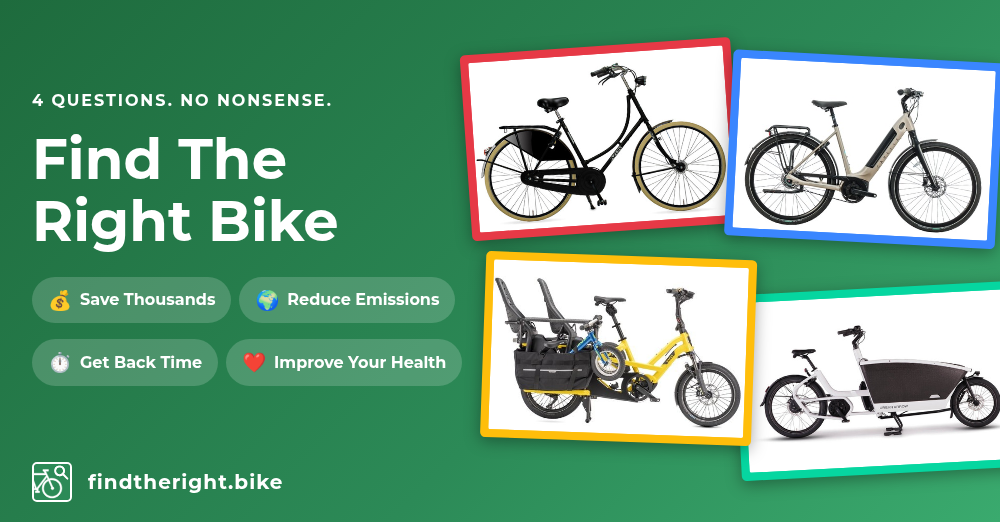
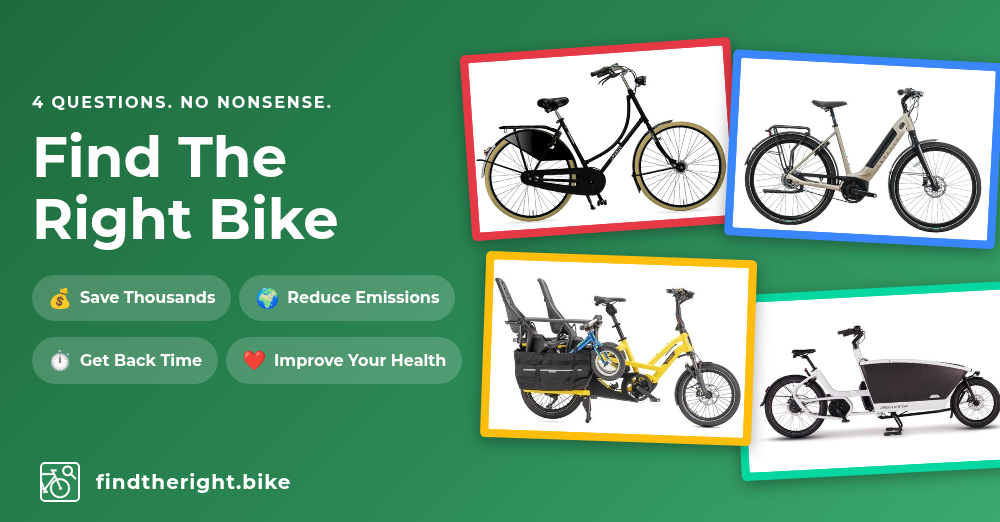
DRY up social image styles

diff --git a/src/assets/scss/social-image.scss b/src/assets/scss/social-image.scss
@@ -1,0 +1,69 @@
+/**
+ * social-image.scss — Shared styles for OG/social preview images
+ * (SocialImage.vue and SocialImageBike.vue).
+ *
+ * Each component @use's this file and adds its own unique styles on top.
+ * Covers the base card layout, gradient background, eyebrow/heading
+ * typography, and the site branding strip at the bottom.
+ */
+@use './variables' as vars;
+
+$bg-start: #1e6b3d;
+$bg-mid: #2c8a57;
+$bg-end: #3aaa6e;
+
+.social-image {
+  width: 1000px;
+  height: 522px;
+  background: linear-gradient(135deg, $bg-start 0%, $bg-mid 60%, $bg-end 100%);
+  display: flex;
+  align-items: center;
+  position: relative;
+  overflow: hidden;
+  font-family: 'Montserrat', sans-serif;
+}
+
+.content {
+  flex: 1;
+  padding: 2.5rem;
+  z-index: 1;
+  margin-bottom: 3rem;
+}
+
+.eyebrow {
+  font-size: 1rem;
+  font-weight: 700;
+  letter-spacing: 0.12em;
+  text-transform: uppercase;
+  color: rgba(255, 255, 255, 0.8);
+  margin-bottom: 0.75rem;
+}
+
+h1 {
+  font-size: 3rem;
+  font-weight: 700;
+  color: vars.$white;
+  line-height: 1.1;
+  margin: 0 0 1.5rem;
+}
+
+.site-brand {
+  position: absolute;
+  bottom: 1.25rem;
+  left: 2.5rem;
+  display: flex;
+  align-items: center;
+  gap: 1rem;
+  font-size: 1.25rem;
+  font-weight: 700;
+  color: vars.$white;
+  letter-spacing: 0.05em;
+  z-index: 2;
+}
+
+.site-logo {
+  width: 2.5rem;
+  height: 2.5rem;
+  border-radius: 5px;
+  border: 2px solid vars.$white;
+}

diff --git a/src/components/SocialImageBike.vue b/src/components/SocialImageBike.vue
@@ -34,44 +34,7 @@ const bike = computed(() => BikeTypes[props.type] || null);
 
 <style lang="scss" scoped>
 @use '../assets/scss/variables' as vars;
-
-$bg-start: #1e6b3d;
-$bg-mid: #2c8a57;
-
-.social-image {
-  width: 1000px;
-  height: 522px;
-  background: linear-gradient(135deg, $bg-start 0%, $bg-mid 60%, #3aaa6e 100%);
-  display: flex;
-  align-items: center;
-  position: relative;
-  overflow: hidden;
-  font-family: 'Montserrat', sans-serif;
-}
-
-.content {
-  flex: 1;
-  padding: 2.5rem;
-  z-index: 1;
-  margin-bottom: 3rem;
-}
-
-.eyebrow {
-  font-size: 1rem;
-  font-weight: 700;
-  letter-spacing: 0.12em;
-  text-transform: uppercase;
-  color: rgba(255, 255, 255, 0.8);
-  margin-bottom: 0.75rem;
-}
-
-h1 {
-  font-size: 3rem;
-  font-weight: 700;
-  color: vars.$white;
-  line-height: 1.1;
-  margin: 0 0 1.5rem;
-}
+@use '../assets/scss/social-image';
 
 .features {
   list-style: none;
@@ -131,26 +94,5 @@ h1 {
   right: 2.5rem;
   font-size: 0.9rem;
   padding: 0.35rem 0.75rem;
-}
-
-.site-brand {
-  position: absolute;
-  bottom: 1.25rem;
-  left: 2.5rem;
-  display: flex;
-  align-items: center;
-  gap: 1rem;
-  font-size: 1.25rem;
-  font-weight: 700;
-  color: vars.$white;
-  letter-spacing: 0.05em;
-  z-index: 2;
-}
-
-.site-logo {
-  width: 2.5rem;
-  height: 2.5rem;
-  border-radius: 5px;
-  border: 2px solid vars.$white;
 }
 </style>

diff --git a/src/components/SocialImage.vue b/src/components/SocialImage.vue
@@ -45,44 +45,19 @@
 
 <style lang="scss" scoped>
 @use '../assets/scss/variables' as vars;
-
-$bg-start: #1e6b3d;
-$bg-mid: #2c8a57;
-
-.social-image {
-  width: 1000px;
-  height: 522px;
-  background: linear-gradient(135deg, $bg-start 0%, $bg-mid 60%, #3aaa6e 100%);
-  display: flex;
-  align-items: center;
-  position: relative;
-  overflow: hidden;
-  font-family: 'Montserrat', sans-serif;
-}
+@use '../assets/scss/social-image';
 
 .content {
-  flex: 1;
   padding: 2rem;
-  z-index: 1;
   flex-shrink: 0;
-  margin-bottom: 3rem;
 }
 
 .eyebrow {
-  font-size: 1rem;
-  font-weight: 700;
-  letter-spacing: 0.12em;
-  text-transform: uppercase;
   color: vars.$white;
-  margin-bottom: 1rem;
 }
 
 h1 {
   font-size: 3.5rem;
-  font-weight: 700;
-  color: vars.$white;
-  line-height: 1.1;
-  margin: 0 0 1.5rem;
 }
 
 .benefits-summary { gap: 1rem 0.5rem; }
@@ -140,26 +115,5 @@ h1 {
     background: #06D6A0;
     transform: rotate(-3deg) translate(-1rem, 0rem);
   }
-}
-
-.site-brand {
-  position: absolute;
-  bottom: 1.25rem;
-  left: 2rem;
-  display: flex;
-  align-items: center;
-  gap: 1rem;
-  font-size: 1.25rem;
-  font-weight: 700;
-  color: vars.$white;
-  letter-spacing: 0.05em;
-  z-index: 2;
-}
-
-.site-logo {
-  width: 2.5rem;
-  height: 2.5rem;
-  border-radius: 5px;
-  border: 2px solid vars.$white;
 }
 </style>
